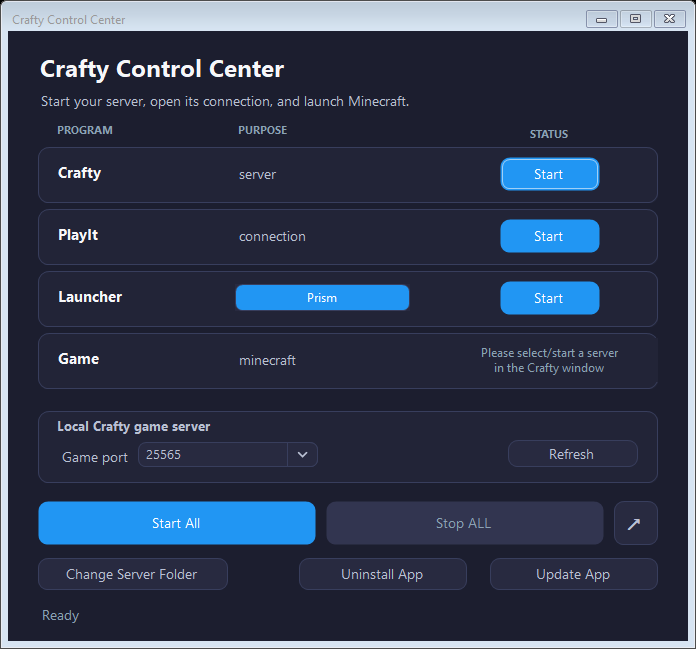
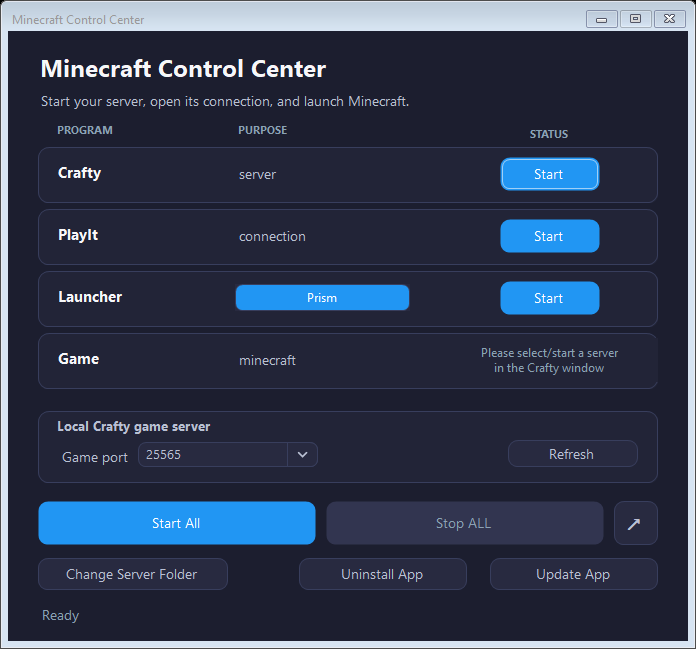
Rename app to Minecraft Control Center

Changed region(s): [[0.0603, 0.0924, 0.4828, 0.1233], [0.0302, 0.0, 0.2112, 0.0616]]

diff --git a/src/CraftyControlCenter.cs b/src/CraftyControlCenter.cs
@@ -30,7 +30,7 @@ internal static class Program
         bool screenshot = args.Length == 2 && args[0].Equals("--screenshot", StringComparison.OrdinalIgnoreCase);
         if (args.Length != 0 && !selfTest && !screenshot)
         {
-            MessageBox.Show("Unknown command-line option.", "Crafty Control Center", MessageBoxButtons.OK, MessageBoxIcon.Error);
+            MessageBox.Show("Unknown command-line option.", VersionInfo.DisplayName, MessageBoxButtons.OK, MessageBoxIcon.Error);
             return 2;
         }
 
@@ -42,7 +42,7 @@ internal static class Program
         if (!firstInstance)
         {
             if (!selfTest && !screenshot)
-                MessageBox.Show("Minecraft Control Center is already running.", "Crafty Control Center",
+                MessageBox.Show("Minecraft Control Center is already running.", VersionInfo.DisplayName,
                     MessageBoxButtons.OK, MessageBoxIcon.Information);
             return 0;
         }
@@ -62,9 +62,9 @@ internal static class Program
             if (!silentSelfTest)
             {
                 MessageBox.Show(
-                    "Crafty Control Center could not find a valid Crafty installation.\r\n\r\n"
+                    "Minecraft Control Center could not find a valid Crafty installation.\r\n\r\n"
                     + "Restart the app to search again or select the folder containing crafty.exe.",
-                    "Crafty Control Center",
+                    VersionInfo.DisplayName,
                     MessageBoxButtons.OK,
                     MessageBoxIcon.Error);
             }
@@ -899,7 +899,7 @@ internal sealed class ControlCenterForm : Form
         minecraftClientPath = Path.Combine(Environment.GetFolderPath(Environment.SpecialFolder.ApplicationData), ".minecraft");
         HardenSensitiveStorage();
 
-        Text = "Crafty Control Center";
+        Text = VersionInfo.DisplayName;
         StartPosition = FormStartPosition.CenterScreen;
         ClientSize = new Size(680, 610);
         FormBorderStyle = FormBorderStyle.FixedDialog;
@@ -986,7 +986,7 @@ internal sealed class ControlCenterForm : Form
 
     private void BuildInterface()
     {
-        Controls.Add(NewLabel("Crafty Control Center", new Point(26, 20), new Size(620, 38), 18F, true, CraftyTheme.Heading));
+        Controls.Add(NewLabel(VersionInfo.DisplayName, new Point(26, 20), new Size(620, 38), 18F, true, CraftyTheme.Heading));
         Controls.Add(NewLabel("Start your server, open its connection, and launch Minecraft.", new Point(29, 60), new Size(620, 24), 10F, false, CraftyTheme.Text));
 
         Controls.Add(NewLabel("PROGRAM", new Point(ProgramRowLeft + ProgramColumnLeft, 92), new Size(150, 20), 8F, true, CraftyTheme.MutedText));
@@ -1047,7 +1047,7 @@ internal sealed class ControlCenterForm : Form
         shortcutButton.Location = new Point(606, 470);
         shortcutButton.Size = new Size(44, 44);
         shortcutButton.AccessibleName = "Create Shortcut";
-        shortcutButton.AccessibleDescription = "Choose where to create a Crafty Control Center shortcut.";
+        shortcutButton.AccessibleDescription = "Choose where to create a Minecraft Control Center shortcut.";
         shortcutButton.Click += delegate { ChooseShortcutLocation(); };
         toolTip.SetToolTip(shortcutButton, "Create Shortcut...");
         Controls.Add(shortcutButton);
@@ -1088,7 +1088,7 @@ internal sealed class ControlCenterForm : Form
 
         if (MessageBox.Show(this,
             "The Crafty server folder was changed. Restart the app now?",
-            "Crafty Control Center", MessageBoxButtons.YesNo, MessageBoxIcon.Information) != DialogResult.Yes)
+            VersionInfo.DisplayName, MessageBoxButtons.YesNo, MessageBoxIcon.Information) != DialogResult.Yes)
         {
             statusLabel.Text = "Server folder saved. Restart the app to use it.";
             return;
@@ -1139,11 +1139,11 @@ internal sealed class ControlCenterForm : Form
     {
         using (SaveFileDialog dialog = new SaveFileDialog())
         {
-            dialog.Title = "Create Crafty Control Center Shortcut";
+            dialog.Title = "Create Minecraft Control Center Shortcut";
             dialog.Filter = "Windows shortcut (*.lnk)|*.lnk";
             dialog.DefaultExt = "lnk";
             dialog.AddExtension = true;
-            dialog.FileName = "Crafty Control Center";
+            dialog.FileName = "Minecraft Control Center";
             dialog.InitialDirectory = Environment.GetFolderPath(Environment.SpecialFolder.DesktopDirectory);
             dialog.OverwritePrompt = true;
 
@@ -1183,7 +1183,7 @@ internal sealed class ControlCenterForm : Form
             Type shortcutType = shortcut.GetType();
             shortcutType.InvokeMember("TargetPath", System.Reflection.BindingFlags.SetProperty, null, shortcut, new object[] { Application.ExecutablePath });
             shortcutType.InvokeMember("WorkingDirectory", System.Reflection.BindingFlags.SetProperty, null, shortcut, new object[] { root });
-            shortcutType.InvokeMember("Description", System.Reflection.BindingFlags.SetProperty, null, shortcut, new object[] { "Open Crafty Control Center" });
+            shortcutType.InvokeMember("Description", System.Reflection.BindingFlags.SetProperty, null, shortcut, new object[] { "Open Minecraft Control Center" });
             shortcutType.InvokeMember("IconLocation", System.Reflection.BindingFlags.SetProperty, null, shortcut, new object[] { Application.ExecutablePath + ",0" });
             shortcutType.InvokeMember("Save", System.Reflection.BindingFlags.InvokeMethod, null, shortcut, null);
             AppConfiguration.RegisterShortcut(shortcutPath);
@@ -3055,7 +3055,7 @@ internal sealed class ControlCenterForm : Form
 
     private void ShowError(string message)
     {
-        MessageBox.Show(this, message, "Crafty Control Center", MessageBoxButtons.OK, MessageBoxIcon.Error);
+        MessageBox.Show(this, message, VersionInfo.DisplayName, MessageBoxButtons.OK, MessageBoxIcon.Error);
     }
 
     private sealed class ProcessRecord

diff --git a/src/VersionInfo.cs b/src/VersionInfo.cs
@@ -1,7 +1,7 @@
 internal static class VersionInfo
 {
     internal const string AppName = "MinecraftControlCenter";
-    internal const string DisplayName = "Crafty Control Center";
+    internal const string DisplayName = "Minecraft Control Center";
     internal const string Version = "1.0.0";
     internal const string ReleaseApiUrl = "https://api.github.com/repos/TheQuantifier/MinecraftControlCenter/releases/latest";
     internal const string ReleasesPageUrl = "https://github.com/TheQuantifier/MinecraftControlCenter/releases/latest";

diff --git a/release-notes/v1.0.0.md b/release-notes/v1.0.0.md
@@ -5,7 +5,7 @@ managing a Crafty-based Minecraft setup from one place.
 
 ## Changes in this release
 
-- Converted the original Crafty Control Center into a maintainable standalone app.
+- Converted the original server control script into a maintainable standalone app.
 - Added installed and portable distribution modes.
 - Removed dependencies on the app's placement and added automatic discovery for
   Crafty, PlayIt, Prism Launcher, and TLauncher.
